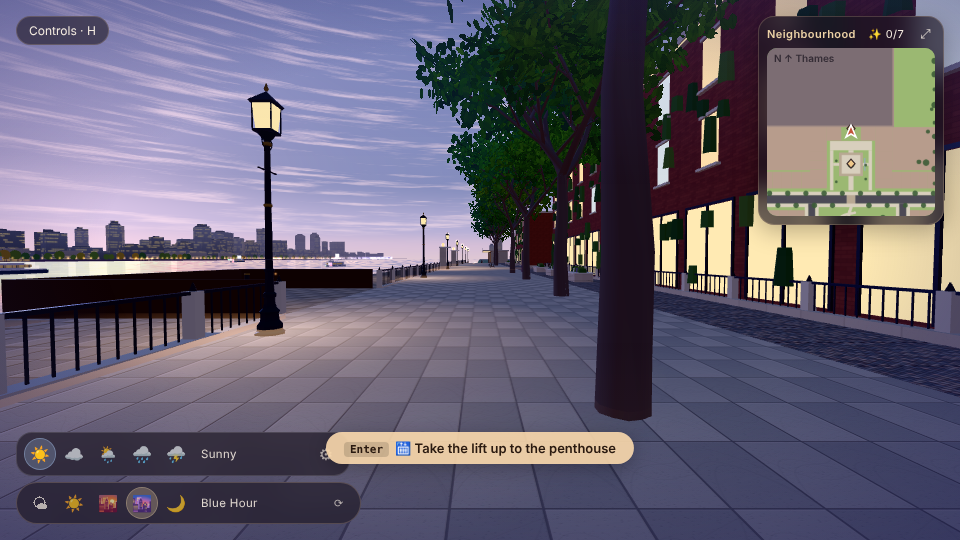
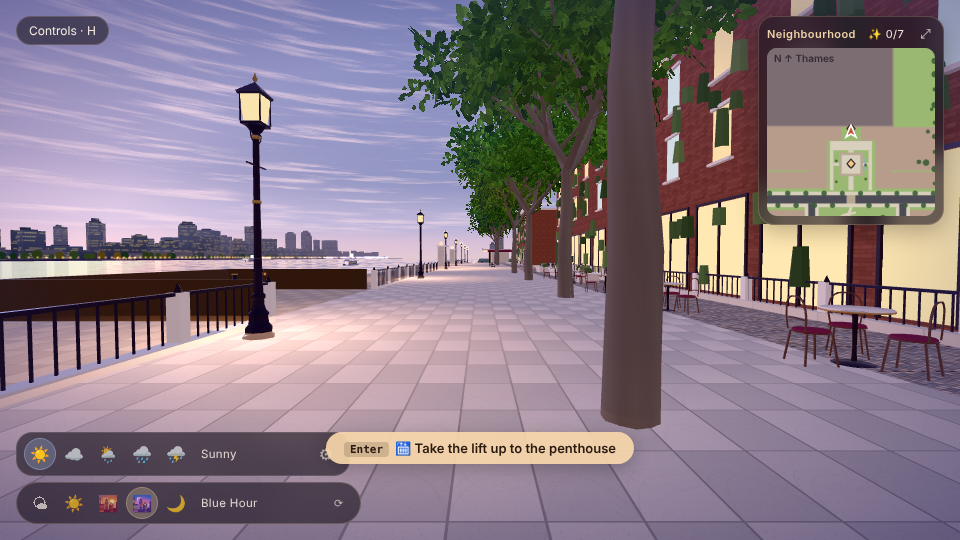
s15: refreshed 4-way sheet, log, resume checkpoint
Claude-Session: https://claude.ai/code/session_017ZtboRbFUCo4FCo9fUW3pH

diff --git a/RESUME.md b/RESUME.md
@@ -6,3 +6,9 @@ Blender (bpy 5.3 headless): assets/blender/make_props.py helpers; make_lobby.py,
 Done this stretch: slim glazing mullions; s03 clean walls/flush doors/slim casings/cove/artwork; balcony tree moved west; shop rows renamed/re-ordered to Bible s10/s11; hydrangea planters; interior limewash + woven fabric; café posies + wisteria; bookshop globe; promenade plane-tree row; palette audit 0 errors; lift round trip passes.
 Open (see DEFECTS.md): AO/contact shadows, M2 perf (G7), Blender scene renders + matched-camera triplets, foliage/tree Blender rebuild, café reading nook/glass-tube chandelier, riverside brick wall/pavilion lighting, Section 04 corrections + owner approval, (owner decisions 2026-11-12: cherry tree removed, layout approved, capsule OK; DO NOT PUSH until the whole checklist is ticked with evidence).
 Rule: Section 04 stays "TECHNICAL DIRECTION APPROVED — FINAL VISUAL CORRECTION PENDING USER APPROVAL"; never claim an environment complete without owner review; no invented similarity percentages.
+
+## CHECKPOINT 2026-11-12 (end of s15 benchmark pass)
+- Branch impl/design-bible-v16, all committed locally, NOT pushed (owner: push only after full checklist).
+- s15 done so far: Blender master render, landward brick frontage w/ lit glazing + ivy, glow planters, burgundy glass pavilion, Blender bistro sets, Blender-baked slab albedo/normal + contact-AO decal (assets/blender/bake_textures.py -> public/textures). See docs/bible/S15_BENCHMARK.md for discrepancies.
+- Next: fairy lights + wall lanterns + hedges for s15; interior depth behind glazing; apply the same bake pipeline (brick/ashlar/plaster/sett textures) to the rest of the street; lift lobby pink (D-001/2); s04 corrections for owner approval; other envs' Blender masters; owner runs M2 benchmark (docs/bible/PERF_BENCHMARK.md).
+- Test tooling: /tmp/serve.sh serves dist4 on :4176 (npx vite build --outDir dist4); /tmp/gl.cjs (afternoon) and /tmp/glb.cjs (blue hour) take `outdir '{"name":[x,y,z,yaw,pitch,fov]}'`.

diff --git a/docs/bible/S15_BENCHMARK.md b/docs/bible/S15_BENCHMARK.md
@@ -14,8 +14,8 @@ Evidence: `evidence/s15_riverside_4way.jpg` (BEFORE p.65 / TARGET p.66 / LOCALHO
 
 ## Discrepancies vs TARGET (p.66)
 1. Shopfront glass is a flat cream plane: no interior depth, mullions only, no warm interior props.
-2. Tree canopies are too sparse/low-density compared with the dense overhead canopy; no fairy-light strings.
-3. Burgundy-canopied glass pavilion and terrace seating now **integrated** (evidence: s15_pavilion_bluehour.png); seating reads as stumpy stools (tables/chairs need real Blender-made models); still missing wall-mounted lanterns, hedges between trees, fairy lights.
+2. Tree canopies still sparser than the dense overhead canopy in the target; no fairy-light strings.
+3. Burgundy-canopied glass pavilion and terrace seating now **integrated** (evidence: s15_pavilion_bluehour.png); seating now uses the Blender-made bistro tables and bentwood chairs; canopy densified (15 cards/tip); still missing wall-mounted lanterns, hedges between trees, fairy lights.
 4. Ivy is blocky prisms (6-sided); needs leaf-card clusters.
 5. Paving is the generic slab texture; no warm light pools on the stone from lamps/windows at blue hour.
 6. Sky/river grade is cooler and less saturated than the target sunset; no bloom/halation (postprocessing absent).
